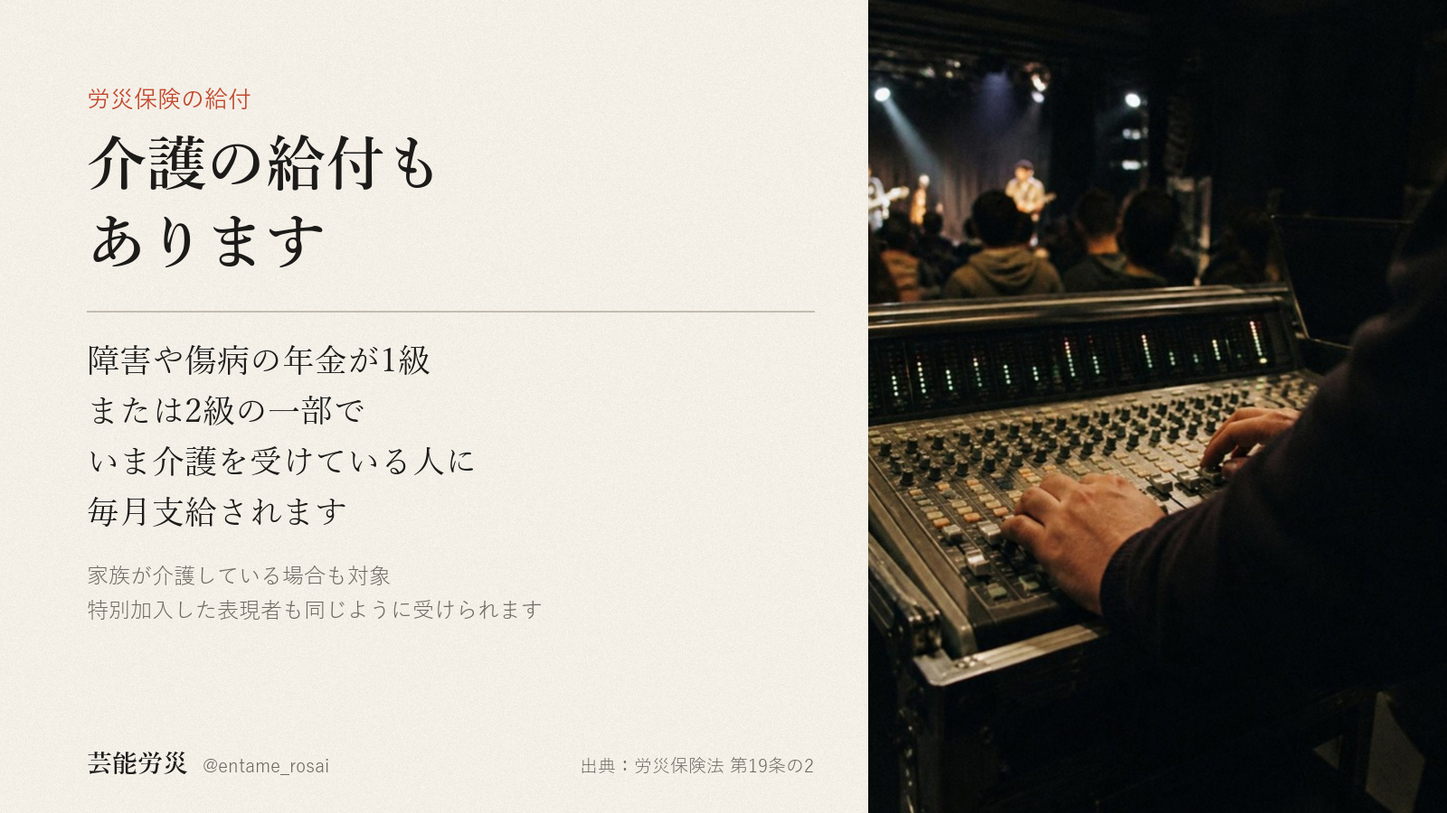
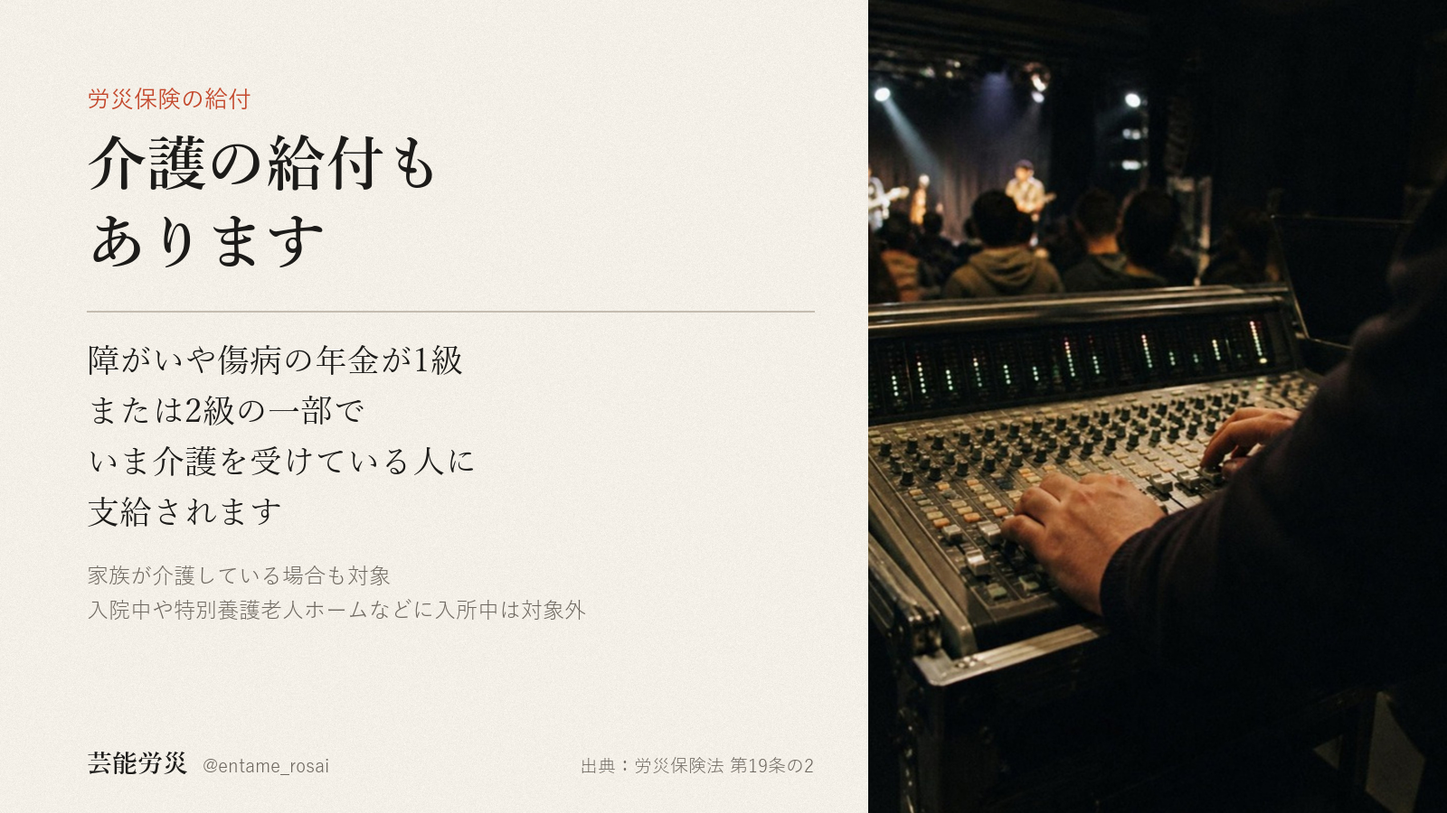
投稿デスク更新 2026-10-23

Changed region(s): [[0.0625, 0.7156, 0.4062, 0.7778], [0.0625, 0.4044, 0.3125, 0.4667], [0.0625, 0.5911, 0.2188, 0.6533]]

diff --git a/index.html b/index.html
@@ -351,7 +351,7 @@ dialog img{width:100%;height:auto;border-radius:18px;display:block}
 <div class="toast" id="toast">コピーしました</div>
 <dialog id="zoom"><img alt=""></dialog>
 
-<script id="desk-data" type="application/json">{"account":"@entame_rosai","days":[{"date":"2026-10-23","label":"10月23日（金）　今日","items":[{"key":"x","date":"2026-10-14","label":"X（@entame_rosai）","account":"@entame_rosai","text":"労災の特別加入の費用を、手数料込みで書きます。給付基礎日額10,000円を選んだ場合、月1,600円（保険料912円、組合費500円、手数料188円）。初月のみ入会事務手数料2,000円。保険料の部分は全額、社会保険料控除の対象です。（当団体申込フォームの試算・2026年10月）","chars":140,"lines":1,"hashtags":0,"limit":140,"status":"（台帳に記載なし）","url":"","images":[{"name":"x_image.png","path":"assets/2026-10-14/x_image/x_image.png"}],"alt":"左半分は、窓際の古い木の机に開いたノートと鉛筆、奥に折りたたみ椅子がある部屋の写真。人は写っていない。右半分は生成りの紙の地に明朝体で「手数料込みで月1,600円」。上に「給付基礎日額10,000円を選んだ場合」。罫線の表で月額の内訳が、保険料912円、組合費500円、手数料188円。注記に、初月のみ入会事務手数料2,000円、控除の対象は保険料912円の部分。出典は当団体申込フォームの試算（2026年10月）。","check":{"errors":[],"warns":[]},"made":"2026-10-14","slot":"2026-10-23"}]},{"date":"2026-10-24","label":"10月24日（土）　投稿予定","items":[{"key":"x","date":"2026-10-15","label":"X（@entame_rosai）","account":"@entame_rosai","text":"労災の特別加入は、さかのぼって入ることができません。補償されるのは、加入した日より後に起きた仕事中のけがです。加入審査はないので、いま治療中のけががある人も、年齢が上の人も入れます。始める月は、申込のときに自分で選べます。（厚生労働省 特別加入制度）","chars":125,"lines":1,"hashtags":0,"limit":140,"status":"（台帳に記載なし）","url":"","images":[{"name":"x_image.png","path":"assets/2026-10-15/x_image/x_image.png"}],"alt":"右側は、電球に囲まれた楽屋の鏡と化粧台、手前に椅子の背が写る写真。人は写っていない。左側は生成りの紙の地に明朝体で「さかのぼって入ることはできない」。続けて「補償されるのは加入した日より後の仕事中のけが」。注記に、加入審査はなく治療中の人も年齢が上の人も入れる、始める月は申込のときに自分で選べる。出典は厚生労働省 特別加入制度。","check":{"errors":[],"warns":[]},"made":"2026-10-15","slot":"2026-10-24"}]},{"date":"2026-10-25","label":"10月25日（日）　投稿予定","items":[{"key":"x","date":"2026-10-16","label":"X（@entame_rosai）","account":"@entame_rosai","text":"芸能の仕事をする人がフリーランスのまま労災保険に特別加入できるようになったのは、2021年4月からです。俳優、ダンサー、演出家、撮影や照明のスタッフなどが対象です。2024年11月からは、ほかの職種のフリーランスも入れるようになりました。（厚生労働省）","chars":126,"lines":1,"hashtags":0,"limit":140,"status":"（台帳に記載なし）","url":"","images":[{"name":"x_image.png","path":"assets/2026-10-16/x_image/x_image.png"}],"alt":"右側は、夕暮れの住宅街の道で、録音マイクを掲げるスタッフとカメラを構える人を後ろから写した写真。顔は写っていない。左側は生成りの紙の地に大きく「2021年4月」。その下に明朝体で「フリーランスのまま労災に入れるようになった」。注記に、俳優、ダンサー、演出家、撮影や照明のスタッフなど、2024年11月からはほかの職種のフリーランスも対象。出典は厚生労働省。","check":{"errors":[],"warns":[]},"made":"2026-10-16","slot":"2026-10-25"}]},{"date":"2026-10-26","label":"10月26日（月）　投稿予定","items":[{"key":"x","date":"2026-10-17","label":"X（@entame_rosai）","account":"@entame_rosai","text":"労災の特別加入は、通勤中のけがも対象です。家と現場の間を、合理的な経路と方法で移動している間の事故が補償されます。寄り道で経路を外れると、その後の移動も原則対象外。日用品の買い物など必要最小限なら、経路に戻った後は対象です。（厚生労働省 特別加入制度のしおり）","chars":130,"lines":1,"hashtags":0,"limit":140,"status":"（台帳に記載なし）","url":"","images":[{"name":"x_image.png","path":"assets/2026-10-17/x_image/x_image.png"}],"alt":"右側は、ステッカーだらけの狭い楽屋廊下を、ギターケースを提げて歩いていく人を後ろから写した写真。顔は写っていない。左側は生成りの紙の地に明朝体で「家と現場の行き帰りも対象になる」。続けて「合理的な経路と方法での移動なら補償される」。注記に、寄り道で経路を外れるとその後の移動も原則対象外、日用品の買い物など最小限なら経路に戻った後は対象。出典は厚生労働省 特別加入制度のしおり。","check":{"errors":[],"warns":[]},"made":"2026-10-17","slot":"2026-10-26"}]},{"date":"2026-10-27","label":"10月27日（火）　投稿予定","items":[{"key":"x","date":"2026-10-20","label":"X（@entame_rosai）","account":"@entame_rosai","text":"労災の特別加入は、何月から何か月間入るかを申込のときに選べます。給付基礎日額10,000円を選んだ場合、月1,600円（保険料912円、組合費500円、手数料188円）。初月だけ入会事務手数料2,000円が加わり、5か月なら総額10,000円です。（当団体の申込フォームの試算）","chars":139,"lines":1,"hashtags":0,"limit":140,"status":"（台帳に記載なし）","url":"","images":[{"name":"x_image.png","path":"assets/2026-10-20/x_image/x_image.png"}],"alt":"劇場の袖にある舞台監督の机。青いデスクライトの下にヘッドセットと進行表、腕時計があり、奥の舞台では俳優が演技している。画像の文字：加入する期間　何か月入るかを自分で選べる　加入する期間／支払総額　1か月 3,600円　3か月 6,800円　5か月 10,000円　給付基礎日額10,000円の場合 月1,600円　初月のみ入会事務手数料2,000円を含む　出典：当団体の申込フォームの試算　芸能労災 @entame_rosai","check":{"errors":[],"warns":[]},"made":"2026-10-20","slot":"2026-10-27"}]},{"date":"2026-10-28","label":"10月28日（水）　投稿予定","items":[{"key":"x","date":"2026-10-21","label":"X（@entame_rosai）","account":"@entame_rosai","text":"労災の特別加入は、芸能なら保険料率が一律0.3%。俳優もダンサーもスタントも同じで、審査も割増もありません。日額10,000円を選んだ場合、月1,600円（保険料912円、組合費500円、手数料188円）、初月に入会事務手数料2,000円。（徴収法施行規則・当団体申込フォーム）","chars":139,"lines":1,"hashtags":0,"limit":140,"status":"（台帳に記載なし）","url":"","images":[{"name":"x_image.png","path":"assets/2026-10-21/x_image/x_image.png"}],"alt":"右半分は、青空の下で屋外ステージのトラスに吊られた照明機材を見上げた写真。左半分は生成り色の紙の上に文字。「芸能の特別加入の保険料率」「0.3%」「俳優もダンサーもスタントも 同じ率で 審査も割増もない」「給付基礎日額10,000円の場合 月1,600円」「初月のみ入会事務手数料2,000円」「芸能労災 @entame_rosai」「出典：徴収法施行規則／当団体申込フォーム」","check":{"errors":[],"warns":["競合の調査由来かもしれない数字/語: 0.3%　… 労災の特別加入は、芸能なら保険料率が一律0.3%。俳優もダンサーもスタントも同じで、審査も割増もありませ…"]},"made":"2026-10-21","slot":"2026-10-28"}]},{"date":"2026-10-29","label":"10月29日（木）　投稿予定","items":[{"key":"x","date":"2026-10-22","label":"X（@entame_rosai）","account":"@entame_rosai","text":"給付基礎日額は3,500円から25,000円の16段階から、自分で選べます。けがで働けない日の給付は選んだ日額の80%（休業4日目から）。日額10,000円なら1日8,000円で、費用は月1,600円＋初月に入会事務手数料2,000円。（厚労省・当団体申込フォーム）","chars":133,"lines":1,"hashtags":0,"limit":140,"status":"（台帳に記載なし）","url":"","images":[{"name":"x_image.png","path":"assets/2026-10-22/x_image/x_image.png"}],"alt":"右半分は、暗い舞台に紫色のスポットライトが3つ斜めに差し込み、床に光の輪が落ちている写真。左半分は生成り色の紙の上に文字。「給付基礎日額」「日額は 自分で選べる」「選べる幅 16段階」「いちばん低い日額 3,500円」「いちばん高い日額 25,000円」「働けない日の給付 日額の80%」「日額10,000円なら1日8,000円（休業4日目から）」「費用は月1,600円 初月のみ入会事務手数料2,000円」「芸能労災 @entame_rosai」「出典：厚労省／当団体申込フォーム」","check":{"errors":[],"warns":[]},"made":"2026-10-22","slot":"2026-10-29"}]},{"date":"2026-10-30","label":"10月30日（金）　投稿予定","items":[{"key":"x","date":"2026-10-23","label":"X（@entame_rosai）","account":"@entame_rosai","text":"労災保険には、介護の給付もあります。障害や傷病の年金が1級、または2級の一部で、いま介護を受けている人に毎月支給されます。家族が介護している場合も対象です。特別加入した表現者も同じように受けられます。（労災保険法 第19条の2）","chars":114,"lines":1,"hashtags":0,"limit":140,"status":"（台帳に記載なし）","url":"","images":[{"name":"x_image.png","path":"assets/2026-10-23/x_image/x_image.png"}],"alt":"右半分はライブハウスの客席後方で、音響担当の人が両手でミキサー卓のつまみを操作している写真。奥のステージではギターを持った演者がスポットライトを浴び、観客が立って見ている。左半分は紙の地に文字。「労災保険の給付」「介護の給付もあります」「障害や傷病の年金が1級または2級の一部で、いま介護を受けている人に毎月支給されます」「家族が介護している場合も対象」「特別加入した表現者も同じように受けられます」「芸能労災 @entame_rosai」「出典：労災保険法 第19条の2」","check":{"errors":[],"warns":[]},"made":"2026-10-23","slot":"2026-10-30"}]}],"todo":[{"due":"今日","who":"作業者","title":"X（@entame_rosai）の今日の投稿","detail":"画像1枚を添付 → 代替テキストを入れる → 本文を貼る、の順。代替テキストは直近の投稿で入っていません。X は投稿後に足せません。","cid":"c-2026-10-14-x"},{"due":"未公開のまま","who":"矢部さん","title":"note の記事を公開（09/18作成）","detail":"このデスクには載っていません（note は矢部さんの手元の下書き）。公開するときは見出し画像を必ず設定。","cid":""},{"due":"未公開のまま","who":"矢部さん","title":"note の記事を公開（10/09作成）","detail":"このデスクには載っていません（note は矢部さんの手元の下書き）。公開するときは見出し画像を必ず設定。","cid":""},{"due":"投稿のたび","who":"作業者","title":"投稿URLと名前を、そのカードの欄に保存","detail":"記録が集まらないと、何が出たかを後から確かめられません。","cid":""}],"builtAt":"2026-10-23 09:12","today":"2026-10-23","followers":{"date":"10-13","x":5,"ig":21,"note":0},"hero":"assets/hero.jpg","endpoint":"https://script.google.com/macros/s/AKfycbxhxM75PszpPOX_HDJ4yuBmQSqu1b7CXq2sbCxlqTZ_TyF8hROH2MyKnYNU11avb8UQCA/exec"}</script>
+<script id="desk-data" type="application/json">{"account":"@entame_rosai","days":[{"date":"2026-10-23","label":"10月23日（金）　今日","items":[{"key":"x","date":"2026-10-14","label":"X（@entame_rosai）","account":"@entame_rosai","text":"労災の特別加入の費用を、手数料込みで書きます。給付基礎日額10,000円を選んだ場合、月1,600円（保険料912円、組合費500円、手数料188円）。初月のみ入会事務手数料2,000円。保険料の部分は全額、社会保険料控除の対象です。（当団体申込フォームの試算・2026年10月）","chars":140,"lines":1,"hashtags":0,"limit":140,"status":"（台帳に記載なし）","url":"","images":[{"name":"x_image.png","path":"assets/2026-10-14/x_image/x_image.png"}],"alt":"左半分は、窓際の古い木の机に開いたノートと鉛筆、奥に折りたたみ椅子がある部屋の写真。人は写っていない。右半分は生成りの紙の地に明朝体で「手数料込みで月1,600円」。上に「給付基礎日額10,000円を選んだ場合」。罫線の表で月額の内訳が、保険料912円、組合費500円、手数料188円。注記に、初月のみ入会事務手数料2,000円、控除の対象は保険料912円の部分。出典は当団体申込フォームの試算（2026年10月）。","check":{"errors":[],"warns":[]},"made":"2026-10-14","slot":"2026-10-23"}]},{"date":"2026-10-24","label":"10月24日（土）　投稿予定","items":[{"key":"x","date":"2026-10-15","label":"X（@entame_rosai）","account":"@entame_rosai","text":"労災の特別加入は、さかのぼって入ることができません。補償されるのは、加入した日より後に起きた仕事中のけがです。加入審査はないので、いま治療中のけががある人も、年齢が上の人も入れます。始める月は、申込のときに自分で選べます。（厚生労働省 特別加入制度）","chars":125,"lines":1,"hashtags":0,"limit":140,"status":"（台帳に記載なし）","url":"","images":[{"name":"x_image.png","path":"assets/2026-10-15/x_image/x_image.png"}],"alt":"右側は、電球に囲まれた楽屋の鏡と化粧台、手前に椅子の背が写る写真。人は写っていない。左側は生成りの紙の地に明朝体で「さかのぼって入ることはできない」。続けて「補償されるのは加入した日より後の仕事中のけが」。注記に、加入審査はなく治療中の人も年齢が上の人も入れる、始める月は申込のときに自分で選べる。出典は厚生労働省 特別加入制度。","check":{"errors":[],"warns":[]},"made":"2026-10-15","slot":"2026-10-24"}]},{"date":"2026-10-25","label":"10月25日（日）　投稿予定","items":[{"key":"x","date":"2026-10-16","label":"X（@entame_rosai）","account":"@entame_rosai","text":"芸能の仕事をする人がフリーランスのまま労災保険に特別加入できるようになったのは、2021年4月からです。俳優、ダンサー、演出家、撮影や照明のスタッフなどが対象です。2024年11月からは、ほかの職種のフリーランスも入れるようになりました。（厚生労働省）","chars":126,"lines":1,"hashtags":0,"limit":140,"status":"（台帳に記載なし）","url":"","images":[{"name":"x_image.png","path":"assets/2026-10-16/x_image/x_image.png"}],"alt":"右側は、夕暮れの住宅街の道で、録音マイクを掲げるスタッフとカメラを構える人を後ろから写した写真。顔は写っていない。左側は生成りの紙の地に大きく「2021年4月」。その下に明朝体で「フリーランスのまま労災に入れるようになった」。注記に、俳優、ダンサー、演出家、撮影や照明のスタッフなど、2024年11月からはほかの職種のフリーランスも対象。出典は厚生労働省。","check":{"errors":[],"warns":[]},"made":"2026-10-16","slot":"2026-10-25"}]},{"date":"2026-10-26","label":"10月26日（月）　投稿予定","items":[{"key":"x","date":"2026-10-17","label":"X（@entame_rosai）","account":"@entame_rosai","text":"労災の特別加入は、通勤中のけがも対象です。家と現場の間を、合理的な経路と方法で移動している間の事故が補償されます。寄り道で経路を外れると、その後の移動も原則対象外。日用品の買い物など必要最小限なら、経路に戻った後は対象です。（厚生労働省 特別加入制度のしおり）","chars":130,"lines":1,"hashtags":0,"limit":140,"status":"（台帳に記載なし）","url":"","images":[{"name":"x_image.png","path":"assets/2026-10-17/x_image/x_image.png"}],"alt":"右側は、ステッカーだらけの狭い楽屋廊下を、ギターケースを提げて歩いていく人を後ろから写した写真。顔は写っていない。左側は生成りの紙の地に明朝体で「家と現場の行き帰りも対象になる」。続けて「合理的な経路と方法での移動なら補償される」。注記に、寄り道で経路を外れるとその後の移動も原則対象外、日用品の買い物など最小限なら経路に戻った後は対象。出典は厚生労働省 特別加入制度のしおり。","check":{"errors":[],"warns":[]},"made":"2026-10-17","slot":"2026-10-26"}]},{"date":"2026-10-27","label":"10月27日（火）　投稿予定","items":[{"key":"x","date":"2026-10-20","label":"X（@entame_rosai）","account":"@entame_rosai","text":"労災の特別加入は、何月から何か月間入るかを申込のときに選べます。給付基礎日額10,000円を選んだ場合、月1,600円（保険料912円、組合費500円、手数料188円）。初月だけ入会事務手数料2,000円が加わり、5か月なら総額10,000円です。（当団体の申込フォームの試算）","chars":139,"lines":1,"hashtags":0,"limit":140,"status":"（台帳に記載なし）","url":"","images":[{"name":"x_image.png","path":"assets/2026-10-20/x_image/x_image.png"}],"alt":"劇場の袖にある舞台監督の机。青いデスクライトの下にヘッドセットと進行表、腕時計があり、奥の舞台では俳優が演技している。画像の文字：加入する期間　何か月入るかを自分で選べる　加入する期間／支払総額　1か月 3,600円　3か月 6,800円　5か月 10,000円　給付基礎日額10,000円の場合 月1,600円　初月のみ入会事務手数料2,000円を含む　出典：当団体の申込フォームの試算　芸能労災 @entame_rosai","check":{"errors":[],"warns":[]},"made":"2026-10-20","slot":"2026-10-27"}]},{"date":"2026-10-28","label":"10月28日（水）　投稿予定","items":[{"key":"x","date":"2026-10-21","label":"X（@entame_rosai）","account":"@entame_rosai","text":"労災の特別加入は、芸能なら保険料率が一律0.3%。俳優もダンサーもスタントも同じで、審査も割増もありません。日額10,000円を選んだ場合、月1,600円（保険料912円、組合費500円、手数料188円）、初月に入会事務手数料2,000円。（徴収法施行規則・当団体申込フォーム）","chars":139,"lines":1,"hashtags":0,"limit":140,"status":"（台帳に記載なし）","url":"","images":[{"name":"x_image.png","path":"assets/2026-10-21/x_image/x_image.png"}],"alt":"右半分は、青空の下で屋外ステージのトラスに吊られた照明機材を見上げた写真。左半分は生成り色の紙の上に文字。「芸能の特別加入の保険料率」「0.3%」「俳優もダンサーもスタントも 同じ率で 審査も割増もない」「給付基礎日額10,000円の場合 月1,600円」「初月のみ入会事務手数料2,000円」「芸能労災 @entame_rosai」「出典：徴収法施行規則／当団体申込フォーム」","check":{"errors":[],"warns":["競合の調査由来かもしれない数字/語: 0.3%　… 労災の特別加入は、芸能なら保険料率が一律0.3%。俳優もダンサーもスタントも同じで、審査も割増もありませ…"]},"made":"2026-10-21","slot":"2026-10-28"}]},{"date":"2026-10-29","label":"10月29日（木）　投稿予定","items":[{"key":"x","date":"2026-10-22","label":"X（@entame_rosai）","account":"@entame_rosai","text":"給付基礎日額は3,500円から25,000円の16段階から、自分で選べます。けがで働けない日の給付は選んだ日額の80%（休業4日目から）。日額10,000円なら1日8,000円で、費用は月1,600円＋初月に入会事務手数料2,000円。（厚労省・当団体申込フォーム）","chars":133,"lines":1,"hashtags":0,"limit":140,"status":"（台帳に記載なし）","url":"","images":[{"name":"x_image.png","path":"assets/2026-10-22/x_image/x_image.png"}],"alt":"右半分は、暗い舞台に紫色のスポットライトが3つ斜めに差し込み、床に光の輪が落ちている写真。左半分は生成り色の紙の上に文字。「給付基礎日額」「日額は 自分で選べる」「選べる幅 16段階」「いちばん低い日額 3,500円」「いちばん高い日額 25,000円」「働けない日の給付 日額の80%」「日額10,000円なら1日8,000円（休業4日目から）」「費用は月1,600円 初月のみ入会事務手数料2,000円」「芸能労災 @entame_rosai」「出典：厚労省／当団体申込フォーム」","check":{"errors":[],"warns":[]},"made":"2026-10-22","slot":"2026-10-29"}]},{"date":"2026-10-30","label":"10月30日（金）　投稿予定","items":[{"key":"x","date":"2026-10-23","label":"X（@entame_rosai）","account":"@entame_rosai","text":"労災保険には、介護の給付もあります。障がいや傷病の年金が1級、または2級の一部で、いま介護を受けている人に支給されます。家族が介護している場合も対象です。入院中や、特別養護老人ホームなどに入所中は対象外です。特別加入した表現者も受けられます。（労災保険法 第19条の2）","chars":135,"lines":1,"hashtags":0,"limit":140,"status":"（台帳に記載なし）","url":"","images":[{"name":"x_image.png","path":"assets/2026-10-23/x_image/x_image.png"}],"alt":"右半分はライブハウスの客席後方で、音響担当の人が両手でミキサー卓のつまみを操作している写真。奥のステージではギターを持った演者がスポットライトを浴び、観客が立って見ている。左半分は紙の地に文字。「労災保険の給付」「介護の給付もあります」「障がいや傷病の年金が1級または2級の一部で、いま介護を受けている人に支給されます」「家族が介護している場合も対象」「入院中や特別養護老人ホームなどに入所中は対象外」「芸能労災 @entame_rosai」「出典：労災保険法 第19条の2」","check":{"errors":[],"warns":[]},"made":"2026-10-23","slot":"2026-10-30"}]}],"todo":[{"due":"今日","who":"作業者","title":"X（@entame_rosai）の今日の投稿","detail":"画像1枚を添付 → 代替テキストを入れる → 本文を貼る、の順。代替テキストは直近の投稿で入っていません。X は投稿後に足せません。","cid":"c-2026-10-14-x"},{"due":"未公開のまま","who":"矢部さん","title":"note の記事を公開（09/18作成）","detail":"このデスクには載っていません（note は矢部さんの手元の下書き）。公開するときは見出し画像を必ず設定。","cid":""},{"due":"未公開のまま","who":"矢部さん","title":"note の記事を公開（10/09作成）","detail":"このデスクには載っていません（note は矢部さんの手元の下書き）。公開するときは見出し画像を必ず設定。","cid":""},{"due":"投稿のたび","who":"作業者","title":"投稿URLと名前を、そのカードの欄に保存","detail":"記録が集まらないと、何が出たかを後から確かめられません。","cid":""}],"builtAt":"2026-10-23 09:13","today":"2026-10-23","followers":{"date":"10-13","x":5,"ig":21,"note":0},"hero":"assets/hero.jpg","endpoint":"https://script.google.com/macros/s/AKfycbxhxM75PszpPOX_HDJ4yuBmQSqu1b7CXq2sbCxlqTZ_TyF8hROH2MyKnYNU11avb8UQCA/exec"}</script>
 <script>
 (function(){
   var DATA = JSON.parse(document.getElementById('desk-data').textContent);
